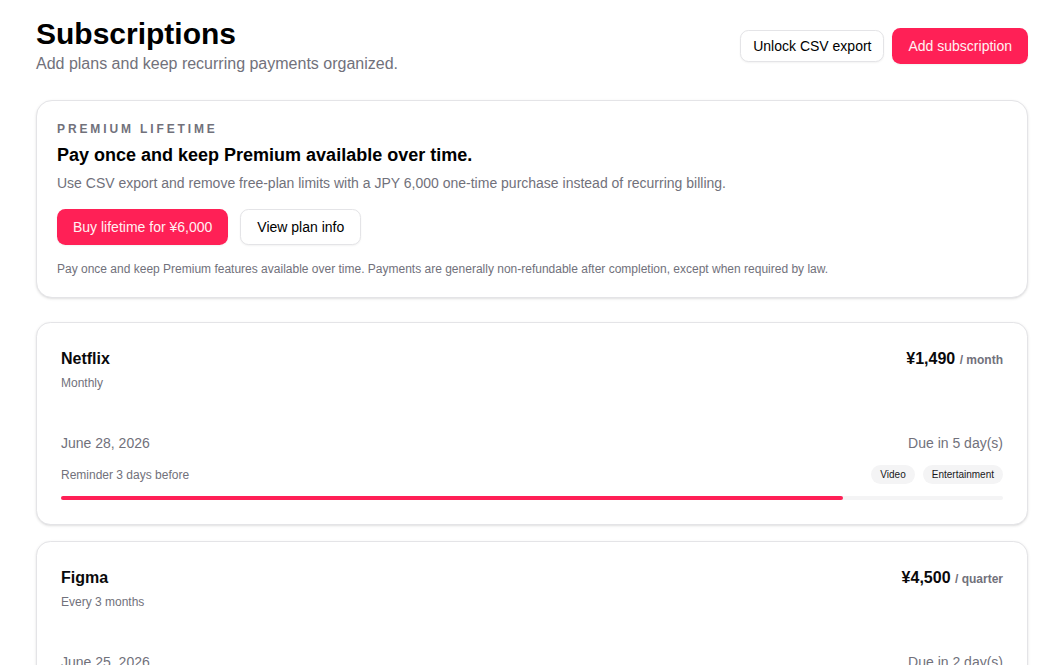
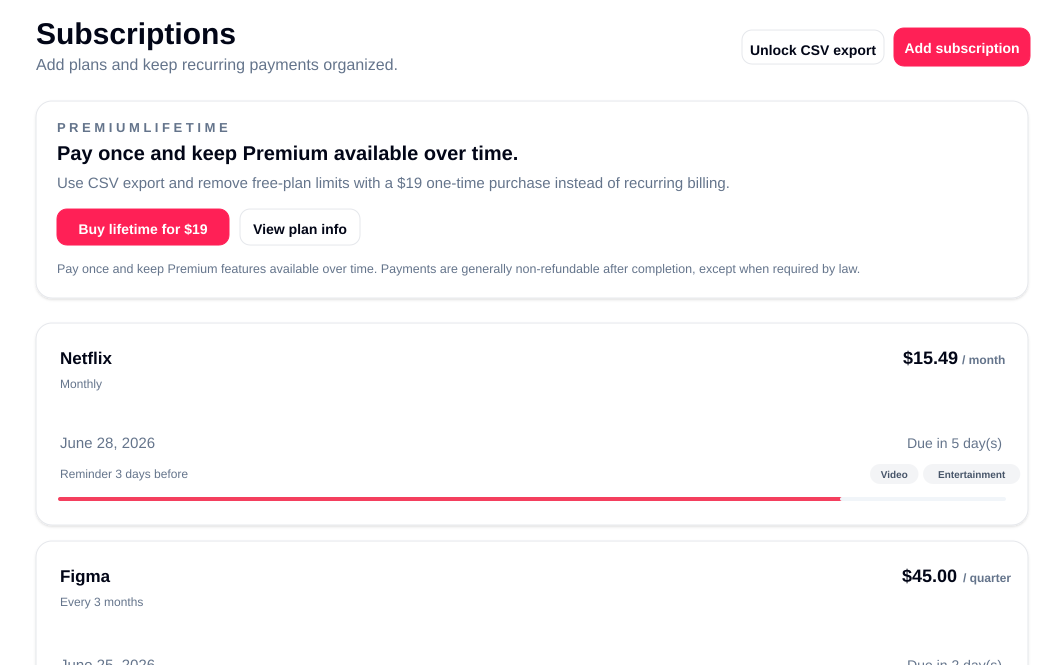
fix(i18n): 英語デモの金額表示をUSDに揃える
英語LPと公開デモで日本円表記が残っていた箇所をUSD表示へ変更する。\n英語デモのサンプルデータにはUSD通貨を持たせ、LPのヒーロー画像とStep画像も英語向けの金額表記に更新する。

diff --git a/src/lib/content/site-content.ts b/src/lib/content/site-content.ts
@@ -1,4 +1,4 @@
-import type { AppLocale } from '$lib/constant';
+import type { AppLocale, SubscriptionCurrency } from '$lib/constant';
 import privacyPolicySource from '../../../docs/プライバシーポリシー.md?raw';
 import privacyPolicySourceEn from '../../../docs/privacy-policy.en.md?raw';
 import termsOfServiceSource from '../../../docs/利用規約.md?raw';
@@ -110,6 +110,7 @@ export type DemoSubscriptionSample = {
 	color: string;
 	cycle: DemoSubscriptionCycle;
 	amount: number;
+	currency: SubscriptionCurrency;
 	firstPaymentDate: string;
 	nextBillingAt: string;
 	daysUntilNextBilling: number;
@@ -796,13 +797,13 @@ export const landingPageCopy: Record<AppLocale, LandingPageCopy> = {
 					'Demo of the SubTrack dashboard showing monthly total, next billing, and reminder status',
 				windowTitle: 'SubTrack dashboard',
 				totalLabel: 'Monthly recurring cost',
-				totalBefore: 'JPY 8,480',
-				totalAfter: 'JPY 7,280',
+				totalBefore: '$84.80',
+				totalAfter: '$72.80',
 				totalHint: 'After reviewing one inactive service',
 				nextBillLabel: 'Next billing',
 				nextBillService: 'Cloud storage',
 				nextBillDate: 'Jun 18',
-				nextBillAmount: 'JPY 1,200',
+				nextBillAmount: '$12.00',
 				notificationTitle: 'Reminder 3 days before',
 				notificationBody: 'Review the annual video plan renewal',
 				calendarTitle: 'This week',
@@ -816,14 +817,14 @@ export const landingPageCopy: Record<AppLocale, LandingPageCopy> = {
 				serviceLabel: 'Service',
 				serviceName: 'Video service',
 				amountLabel: 'Amount',
-				amount: 'JPY 1,200',
+				amount: '$12.00',
 				cycleLabel: 'Billing cycle',
 				cycle: 'Monthly',
 				button: 'Add',
 				addedLabel: 'Added to your list',
 				totalLabel: 'Monthly total',
-				totalBefore: 'JPY 6,080',
-				totalAfter: 'JPY 7,280'
+				totalBefore: '$60.80',
+				totalAfter: '$72.80'
 			},
 			notification: {
 				ariaLabel: 'Demo of renewal reminders arriving before payment dates',
@@ -853,12 +854,12 @@ export const landingPageCopy: Record<AppLocale, LandingPageCopy> = {
 				title: 'Spending breakdown',
 				subtitle: 'Converted to monthly cost',
 				totalLabel: 'Total',
-				total: 'JPY 7,280',
+				total: '$72.80',
 				reviewLabel: 'Review candidate',
 				items: [
-					{ label: 'Work', amount: 'JPY 3,200', share: 44 },
-					{ label: 'Video and music', amount: 'JPY 2,180', share: 30 },
-					{ label: 'Cloud', amount: 'JPY 1,900', share: 26 }
+					{ label: 'Work', amount: '$32.00', share: 44 },
+					{ label: 'Video and music', amount: '$21.80', share: 30 },
+					{ label: 'Cloud', amount: '$19.00', share: 26 }
 				]
 			},
 			ticker: {
@@ -901,7 +902,7 @@ export const landingPageCopy: Record<AppLocale, LandingPageCopy> = {
 					title: 'Add a subscription',
 					description: 'Enter the service name, amount, billing cycle, and first payment date.',
 					image: {
-						src: '/images/onboarding/subscriptions-real.png',
+						src: '/images/onboarding/subscriptions-real-en.png',
 						alt: 'SubTrack list of registered subscriptions'
 					}
 				},
@@ -973,7 +974,7 @@ export const landingPageCopy: Record<AppLocale, LandingPageCopy> = {
 			plans: [
 				{
 					name: 'Free',
-					price: 'JPY 0',
+					price: '$0',
 					cycle: 'For getting started',
 					description: 'Track up to 5 subscriptions.',
 					bullets: ['Subscription list', 'Renewal date review', 'Basic calendar and analytics']
@@ -1147,7 +1148,8 @@ export const demoPageCopy: Record<AppLocale, DemoPageCopy> = {
 					serviceName: 'Netflix',
 					color: 'red',
 					cycle: 'monthly',
-					amount: 1490,
+					amount: 15.49,
+					currency: 'USD',
 					firstPaymentDate: '2026-06-15',
 					nextBillingAt: '2026-06-15',
 					daysUntilNextBilling: 2,
@@ -1161,7 +1163,8 @@ export const demoPageCopy: Record<AppLocale, DemoPageCopy> = {
 					serviceName: 'Spotify',
 					color: 'green',
 					cycle: 'monthly',
-					amount: 980,
+					amount: 11.99,
+					currency: 'USD',
 					firstPaymentDate: '2026-06-21',
 					nextBillingAt: '2026-06-21',
 					daysUntilNextBilling: 8,
@@ -1175,7 +1178,8 @@ export const demoPageCopy: Record<AppLocale, DemoPageCopy> = {
 					serviceName: 'Notion',
 					color: 'purple',
 					cycle: 'yearly',
-					amount: 12000,
+					amount: 120,
+					currency: 'USD',
 					firstPaymentDate: '2026-06-28',
 					nextBillingAt: '2026-06-28',
 					daysUntilNextBilling: 15,
@@ -1189,7 +1193,8 @@ export const demoPageCopy: Record<AppLocale, DemoPageCopy> = {
 					serviceName: 'Adobe Creative Cloud',
 					color: 'orange',
 					cycle: 'monthly',
-					amount: 3280,
+					amount: 59.99,
+					currency: 'USD',
 					firstPaymentDate: '2026-06-20',
 					nextBillingAt: '2026-06-20',
 					daysUntilNextBilling: 7,
@@ -1203,7 +1208,8 @@ export const demoPageCopy: Record<AppLocale, DemoPageCopy> = {
 					serviceName: 'Figma',
 					color: 'yellow',
 					cycle: 'quarterly',
-					amount: 4500,
+					amount: 45,
+					currency: 'USD',
 					firstPaymentDate: '2026-06-18',
 					nextBillingAt: '2026-06-18',
 					daysUntilNextBilling: 5,
@@ -1218,7 +1224,8 @@ export const demoPageCopy: Record<AppLocale, DemoPageCopy> = {
 				serviceName: 'Google One',
 				color: 'blue',
 				cycle: 'monthly',
-				amount: 250,
+				amount: 2.99,
+				currency: 'USD',
 				firstPaymentDate: '2026-06-24',
 				nextBillingAt: '2026-06-24',
 				daysUntilNextBilling: 11,
@@ -1325,6 +1332,7 @@ export const demoPageCopy: Record<AppLocale, DemoPageCopy> = {
 					color: 'red',
 					cycle: 'monthly',
 					amount: 1490,
+					currency: 'JPY',
 					firstPaymentDate: '2026-06-15',
 					nextBillingAt: '2026-06-15',
 					daysUntilNextBilling: 2,
@@ -1339,6 +1347,7 @@ export const demoPageCopy: Record<AppLocale, DemoPageCopy> = {
 					color: 'green',
 					cycle: 'monthly',
 					amount: 980,
+					currency: 'JPY',
 					firstPaymentDate: '2026-06-21',
 					nextBillingAt: '2026-06-21',
 					daysUntilNextBilling: 8,
@@ -1353,6 +1362,7 @@ export const demoPageCopy: Record<AppLocale, DemoPageCopy> = {
 					color: 'purple',
 					cycle: 'yearly',
 					amount: 12000,
+					currency: 'JPY',
 					firstPaymentDate: '2026-06-28',
 					nextBillingAt: '2026-06-28',
 					daysUntilNextBilling: 15,
@@ -1367,6 +1377,7 @@ export const demoPageCopy: Record<AppLocale, DemoPageCopy> = {
 					color: 'orange',
 					cycle: 'monthly',
 					amount: 3280,
+					currency: 'JPY',
 					firstPaymentDate: '2026-06-20',
 					nextBillingAt: '2026-06-20',
 					daysUntilNextBilling: 7,
@@ -1381,6 +1392,7 @@ export const demoPageCopy: Record<AppLocale, DemoPageCopy> = {
 					color: 'yellow',
 					cycle: 'quarterly',
 					amount: 4500,
+					currency: 'JPY',
 					firstPaymentDate: '2026-06-18',
 					nextBillingAt: '2026-06-18',
 					daysUntilNextBilling: 5,
@@ -1396,6 +1408,7 @@ export const demoPageCopy: Record<AppLocale, DemoPageCopy> = {
 				color: 'blue',
 				cycle: 'monthly',
 				amount: 250,
+				currency: 'JPY',
 				firstPaymentDate: '2026-06-24',
 				nextBillingAt: '2026-06-24',
 				daysUntilNextBilling: 11,

diff --git a/src/lib/components/demo/SubTrackDemoExperience.svelte b/src/lib/components/demo/SubTrackDemoExperience.svelte
@@ -17,14 +17,14 @@
 	} from '$lib/components/ui/card';
 	import Input from '$lib/components/ui/input/input.svelte';
 	import * as Dialog from '$lib/components/ui/dialog';
-	import type { AppLocale } from '$lib/constant';
+	import type { AppLocale, SubscriptionCurrency } from '$lib/constant';
 	import type {
 		DemoPageCopy,
 		DemoSubscriptionCycle,
 		DemoSubscriptionSample
 	} from '$lib/content/site-content';
 	import {
-		formatCurrencyYen,
+		formatCurrency,
 		formatLongDate,
 		formatNotifyDays,
 		getCycleLabel,
@@ -61,6 +61,7 @@
 		title: string;
 		date: string;
 		amount: number;
+		currency: SubscriptionCurrency;
 		color: SubscriptionColor;
 		description?: string | null;
 	};
@@ -71,6 +72,7 @@
 		cycle: DemoSubscriptionCycle;
 		notifyDaysBefore: number;
 		amount: number;
+		currency: SubscriptionCurrency;
 		firstPaymentDate: string;
 	};
 
@@ -132,6 +134,7 @@
 		cycle: subscription.cycle,
 		notifyDaysBefore: subscription.notifyDaysBefore,
 		amount: subscription.amount,
+		currency: subscription.currency,
 		firstPaymentDate: subscription.firstPaymentDate
 	});
 
@@ -167,6 +170,7 @@
 	const selectedSubscription = $derived(
 		subscriptions.find((subscription) => subscription.id === selectedSubscriptionId) ?? null
 	);
+	const demoCurrency = $derived(copy.samples.addCandidate.currency);
 	const monthlyTotal = $derived(calculateTotal(subscriptions, 'monthly'));
 	const yearlyTotal = $derived(calculateTotal(subscriptions, 'yearly'));
 	const calendarEvents = $derived.by(() => {
@@ -192,22 +196,36 @@
 	);
 	const activeViewTitle = $derived(copy.tabs[activeTab]);
 
+	function roundDemoAmount(amount: number, currency: SubscriptionCurrency) {
+		const factor = currency === 'JPY' ? 1 : 100;
+		return Math.round((amount + Number.EPSILON) * factor) / factor;
+	}
+
 	function normalizeAmount(subscription: DemoSubscription, period: AnalyticsPeriod) {
 		if (!Number.isFinite(subscription.amount) || subscription.amount <= 0) return 0;
 
 		if (period === 'monthly') {
-			if (subscription.cycle === 'yearly') return Math.round(subscription.amount / 12);
-			if (subscription.cycle === 'quarterly') return Math.round(subscription.amount / 3);
-			return Math.round(subscription.amount);
+			if (subscription.cycle === 'yearly') {
+				return roundDemoAmount(subscription.amount / 12, subscription.currency);
+			}
+			if (subscription.cycle === 'quarterly') {
+				return roundDemoAmount(subscription.amount / 3, subscription.currency);
+			}
+			return roundDemoAmount(subscription.amount, subscription.currency);
 		}
 
-		if (subscription.cycle === 'yearly') return Math.round(subscription.amount);
-		if (subscription.cycle === 'quarterly') return Math.round(subscription.amount * 4);
-		return Math.round(subscription.amount * 12);
+		if (subscription.cycle === 'yearly') return roundDemoAmount(subscription.amount, subscription.currency);
+		if (subscription.cycle === 'quarterly') {
+			return roundDemoAmount(subscription.amount * 4, subscription.currency);
+		}
+		return roundDemoAmount(subscription.amount * 12, subscription.currency);
 	}
 
 	function calculateTotal(items: DemoSubscription[], period: AnalyticsPeriod) {
-		return items.reduce((total, subscription) => total + normalizeAmount(subscription, period), 0);
+		return roundDemoAmount(
+			items.reduce((total, subscription) => total + normalizeAmount(subscription, period), 0),
+			demoCurrency
+		);
 	}
 
 	function buildAnalyticsSummary(
@@ -232,7 +250,10 @@
 			});
 		}
 
-		const total = Array.from(grouped.values()).reduce((sum, item) => sum + item.amount, 0);
+		const total = roundDemoAmount(
+			Array.from(grouped.values()).reduce((sum, item) => sum + item.amount, 0),
+			demoCurrency
+		);
 		const analyticsItems = Array.from(grouped.entries())
 			.map(([serviceName, item]) => ({
 				serviceName,
@@ -250,8 +271,8 @@
 		};
 	}
 
-	function formatAmount(amount: number) {
-		return formatCurrencyYen(amount, locale);
+	function formatAmount(amount: number, currency: SubscriptionCurrency = demoCurrency) {
+		return formatCurrency(amount, currency, locale);
 	}
 
 	function formatBillingDate(value?: string | null) {
@@ -310,6 +331,7 @@
 					title: subscription.serviceName,
 					date: occurrence.format('YYYY-MM-DD'),
 					amount: Number(subscription.amount ?? 0),
+					currency: subscription.currency,
 					color,
 					description: ''
 				});
@@ -331,7 +353,8 @@
 			serviceName: addForm.serviceName.trim() || copy.samples.addCandidate.serviceName,
 			color: addForm.color,
 			cycle: addForm.cycle,
-			amount: Math.max(0, Math.round(Number(addForm.amount) || 0)),
+			amount: roundDemoAmount(Math.max(0, Number(addForm.amount) || 0), addForm.currency),
+			currency: addForm.currency,
 			firstPaymentDate: firstPayment,
 			nextBillingAt: nextBilling.format('YYYY-MM-DD'),
 			daysUntilNextBilling: Math.max(0, nextBilling.diff(demoToday, 'day')),
@@ -579,7 +602,7 @@
 									</div>
 									<div class="shrink-0 text-right">
 										<div class="text-base font-semibold">
-											{formatAmount(sub.amount)}
+											{formatAmount(sub.amount, sub.currency)}
 											<span class="text-muted-foreground text-xs">
 												/ {getCycleUnitLabel(sub.cycle, locale)}
 											</span>
@@ -892,7 +915,7 @@
 							id="demo-amount"
 							type="number"
 							min="0"
-							step="1"
+							step={addForm.currency === 'JPY' ? '1' : '0.01'}
 							required
 							bind:value={addForm.amount}
 						/>

diff --git a/src/lib/components/subscriptions/SubscriptionDetailPanel.svelte b/src/lib/components/subscriptions/SubscriptionDetailPanel.svelte
@@ -36,6 +36,7 @@
 		iconType?: string | null;
 		iconValue?: string | null;
 		amount: number;
+		currency?: string | null;
 		cycle: string;
 		nextBillingAt?: string | null;
 		daysUntilNextBilling?: number | null;
